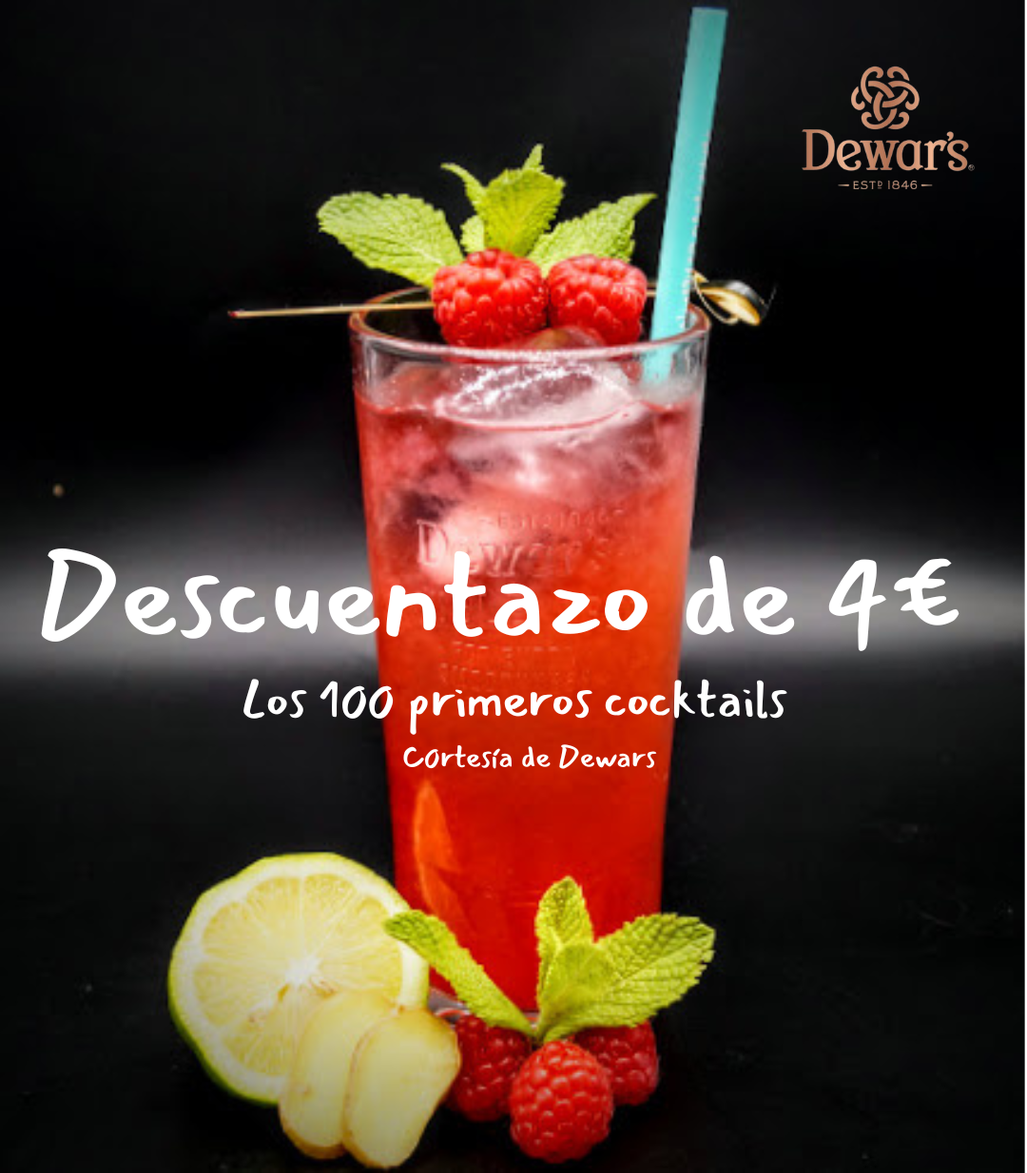
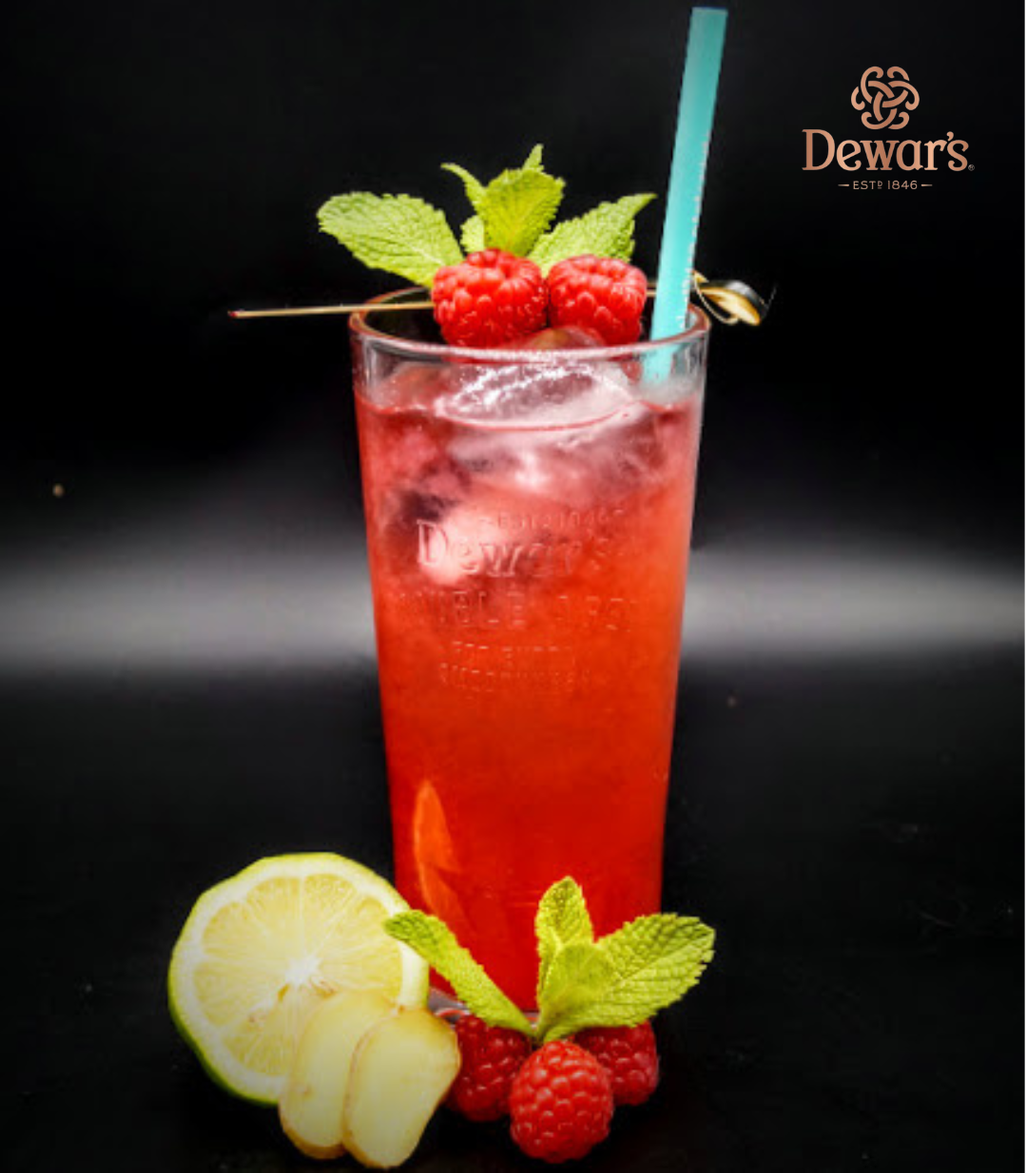
deploy: c743f7343c0cabe97e28b8e2d1a17ab4b925762d

diff --git a/index.html b/index.html
@@ -1,4 +1,4 @@
-<!doctype html><html lang=es-es><head><meta charset=utf-8><title>Maremoto Café & Cocktail</title><meta name=viewport content="width=device-width,initial-scale=1"><meta name=description content="Maremoto Café & Cocktail en Zaragoza"><meta name=author content="Mario Ortiz Manero"><meta name=generator content="Hugo 0.112.5"><meta name=keywords content="bar,pub,copas,cafeteria,cocktails,zaragoza,cafes,desayunos,brunch,zumos,reposteria,bocadillos,centro,aragon"><meta name=generator content="Hugo 0.112.5"><link rel=stylesheet href=https://stackpath.bootstrapcdn.com/bootstrap/4.4.1/css/bootstrap.min.css integrity=sha384-Vkoo8x4CGsO3+Hhxv8T/Q5PaXtkKtu6ug5TOeNV6gBiFeWPGFN9MuhOf23Q9Ifjh crossorigin=anonymous><link rel=stylesheet href=https://maxst.icons8.com/vue-static/landings/line-awesome/line-awesome/1.3.0/css/line-awesome.min.css><link rel=stylesheet href=https://cdnjs.cloudflare.com/ajax/libs/magnific-popup.js/1.1.0/magnific-popup.min.css><link rel=stylesheet href=https://maremotocafe.com/css/style.min.css media=screen><link rel=apple-touch-icon sizes=180x180 href=/apple-touch-icon.png><link rel=icon type=image/png sizes=32x32 href=/favicon-32x32.png><link rel=icon type=image/png sizes=16x16 href=/favicon-16x16.png><link rel=manifest href=/site.webmanifest><link rel=mask-icon href=/safari-pinned-tab.svg color=#5bbad5><meta name=msapplication-TileColor content="#ffffff"><meta name=theme-color content="#ffffff"></head><body id=body data-spy=scroll data-target=.navbar data-offset=55><div id=content><section class=banner-area style=background-image:url(https://maremotocafe.com/images/backgrounds/hero-area.jpg)><div class=block><h1>Maremoto Café & Cocktail</h1><p>Cafés, Desayunos, Brunch, Copas, Cocktails de Autor y mucho más</p><a href=#carta class="btn dark-bg-btn btn-shadow page-scroll">¿Qué te apetece?</a></div></section><a id=scroll-to-top class="btn btn-inverse-colors page-scroll scroll-to-top" title="Ir a Carta" href=#carta><i class="las la-angle-double-up"></i>
+<!doctype html><html lang=es-es><head><meta charset=utf-8><title>Maremoto Café & Cocktail</title><meta name=viewport content="width=device-width,initial-scale=1"><meta name=description content="Maremoto Café & Cocktail en Zaragoza"><meta name=author content="Mario Ortiz Manero"><meta name=generator content="Hugo 0.112.7"><meta name=keywords content="bar,pub,copas,cafeteria,cocktails,zaragoza,cafes,desayunos,brunch,zumos,reposteria,bocadillos,centro,aragon"><meta name=generator content="Hugo 0.112.7"><link rel=stylesheet href=https://stackpath.bootstrapcdn.com/bootstrap/4.4.1/css/bootstrap.min.css integrity=sha384-Vkoo8x4CGsO3+Hhxv8T/Q5PaXtkKtu6ug5TOeNV6gBiFeWPGFN9MuhOf23Q9Ifjh crossorigin=anonymous><link rel=stylesheet href=https://maxst.icons8.com/vue-static/landings/line-awesome/line-awesome/1.3.0/css/line-awesome.min.css><link rel=stylesheet href=https://cdnjs.cloudflare.com/ajax/libs/magnific-popup.js/1.1.0/magnific-popup.min.css><link rel=stylesheet href=https://maremotocafe.com/css/style.min.css media=screen><link rel=apple-touch-icon sizes=180x180 href=/apple-touch-icon.png><link rel=icon type=image/png sizes=32x32 href=/favicon-32x32.png><link rel=icon type=image/png sizes=16x16 href=/favicon-16x16.png><link rel=manifest href=/site.webmanifest><link rel=mask-icon href=/safari-pinned-tab.svg color=#5bbad5><meta name=msapplication-TileColor content="#ffffff"><meta name=theme-color content="#ffffff"></head><body id=body data-spy=scroll data-target=.navbar data-offset=55><div id=content><section class=banner-area style=background-image:url(https://maremotocafe.com/images/backgrounds/hero-area.jpg)><div class=block><h1>Maremoto Café & Cocktail</h1><p>Cafés, Desayunos, Brunch, Copas, Cocktails de Autor y mucho más</p><a href=#carta class="btn dark-bg-btn btn-shadow page-scroll">¿Qué te apetece?</a></div></section><a id=scroll-to-top class="btn btn-inverse-colors page-scroll scroll-to-top" title="Ir a Carta" href=#carta><i class="las la-angle-double-up"></i>
 Ir a Carta</a><div id=old-browser class=old-browser><div class=browser-desc><i class="las la-exclamation-triangle"></i>
 <span>Tu navegador web es demasiado antiguo. Para ver la página correctamente, instala un navegador moderno:</span></div><div class=browser-btns><a class="btn browser-btn" target=_blank rel=noopener href=https://www.mozilla.org/es-ES/firefox/new/><i class="lab la-firefox"></i>
 <span>Firefox</span></a>
@@ -162,7 +162,7 @@ Carta</span></h2><div class=border-meghna></div></div></div></div><div class="ro
 <i class="las la-search"></i></div></a></div></figure><figure class="col-lg-4 shuffle-item" data-groups='["0e4289bca67302dd005790003de478e2","b34b0f802613ce0a65924e6e6d56087d"]'><div class="menu-block mb-4"><a class=open-popup-inline href=#carta-img75><img class="lozad img-fluid" data-src=/carta/308_huad6b75181c4d82a9ff7e321a683ee9d4_134691_465x350_fit_q100_box.jpg alt="Dark Soul"><div class=caption><span>Dark Soul</span>
 <i class="las la-search"></i></div></a></div></figure><figure class="col-lg-4 shuffle-item" data-groups='["58890fbf21cf1187aabb3db3a4bd5a74"]'><div class="menu-block mb-4"><a class=open-popup-standalone href=/carta/cartadesayunos.png><img class="lozad img-fluid" data-src=/carta/portadadesayunos_small.png alt=Desayunos><div class=caption><span>Desayunos</span>
 <i class="las la-search"></i></div></a></div></figure><figure class="col-lg-4 shuffle-item" data-groups='["0e4289bca67302dd005790003de478e2","b34b0f802613ce0a65924e6e6d56087d"]'><div class="menu-block mb-4"><a class=open-popup-inline href=#carta-img77><img class="lozad img-fluid" data-src=/carta/dewarsautunm_hu565f05d02596f16a599f654fdf4cfd72_3797804_465x350_fit_q100_box.jpeg alt="Dewars Autunm 🍁 🆕"><div class=caption><span>Dewars Autunm 🍁 🆕</span>
-<i class="las la-search"></i></div></a></div></figure><figure class="col-lg-4 shuffle-item" data-groups='["0e4289bca67302dd005790003de478e2","b34b0f802613ce0a65924e6e6d56087d"]'><div class="menu-block mb-4"><a class=open-popup-inline href=#carta-img78><img class="lozad img-fluid" data-src=/carta/dewarsbeach_huc56f9d63842180a96534de92091ccfd0_875119_465x350_fit_q100_bgffffff_box_3.jpg alt="Dewars Beach 🏖 ¡¡¡Ojo al Descuentazo de 4€!!! 🆕"><div class=caption><span>Dewars Beach 🏖 ¡¡¡Ojo al Descuentazo de 4€!!! 🆕</span>
+<i class="las la-search"></i></div></a></div></figure><figure class="col-lg-4 shuffle-item" data-groups='["0e4289bca67302dd005790003de478e2","b34b0f802613ce0a65924e6e6d56087d"]'><div class="menu-block mb-4"><a class=open-popup-inline href=#carta-img78><img class="lozad img-fluid" data-src=/carta/dewarsbeach_hu796a51c6ea3a098e6ce7532ebfc07294_844696_465x350_fit_q100_bgffffff_box_3.jpg alt="Dewars Beach 🏖 🆕"><div class=caption><span>Dewars Beach 🏖 🆕</span>
 <i class="las la-search"></i></div></a></div></figure><figure class="col-lg-4 shuffle-item" data-groups='["0e4289bca67302dd005790003de478e2","5b38d4fc03d9b2af5b32aecb51f8d9b0"]'><div class="menu-block mb-4"><a class=open-popup-inline href=#carta-img79><img class="lozad img-fluid" data-src=/carta/374_hu363e03c0d8aad46886e880d0d4da91f6_76909_465x350_fit_q100_box.jpg alt="Dry Martini"><div class=caption><span>Dry Martini</span>
 <i class="las la-search"></i></div></a></div></figure><figure class="col-lg-4 shuffle-item" data-groups='["0e4289bca67302dd005790003de478e2","5b38d4fc03d9b2af5b32aecb51f8d9b0"]'><div class="menu-block mb-4"><a class=open-popup-inline href=#carta-img80><img class="lozad img-fluid" data-src=/carta/350_hu18eb49a21c1187e86fb83a0a077b9204_80080_465x350_fit_q100_box.jpg alt="Espresso Martini"><div class=caption><span>Espresso Martini</span>
 <i class="las la-search"></i></div></a></div></figure><figure class="col-lg-4 shuffle-item" data-groups='["0e4289bca67302dd005790003de478e2","f4fb4e8d6bcb19d8b77736d08477c7b6"]'><div class="menu-block mb-4"><a class=open-popup-inline href=#carta-img81><img class="lozad img-fluid" data-src=/carta/finlandia_hu1542082fb5885ee6d6824c9f4973fd8e_94546_465x350_fit_q100_box.jpeg alt="Finlandia & Schweppes Hibiscus 🌺"><div class=caption><span>Finlandia & Schweppes Hibiscus 🌺</span>
@@ -997,16 +997,15 @@ Todas las tardes de 16h a 22,30h con tu Cappuccino Gratis una Cookie casera a el
 <span class=field-title>PVP en local:</span>
 <span class=field-description>8,5€</span></p></div><div class=field-pvp_terraza><p><i class="field-icon las la-money-bill-wave"></i>
 <span class=field-title>PVP en terraza:</span>
-<span class=field-description>9€</span></p></div></div></div></div><div id=carta-img78 class="carta-img mfp-hide"><div class=popup-content><div class=popup-img><img class=lozad data-src=/carta/dewarsbeach.png alt="Dewars Beach 🏖 ¡¡¡Ojo al Descuentazo de 4€!!! 🆕"></div><div class=popup-details><h1>Dewars Beach 🏖 ¡¡¡Ojo al Descuentazo de 4€!!! 🆕</h1><div class=field-ingredientes><p><i class="field-icon las la-book"></i>
+<span class=field-description>9€</span></p></div></div></div></div><div id=carta-img78 class="carta-img mfp-hide"><div class=popup-content><div class=popup-img><img class=lozad data-src=/carta/dewarsbeach.png alt="Dewars Beach 🏖 🆕"></div><div class=popup-details><h1>Dewars Beach 🏖 🆕</h1><div class=field-ingredientes><p><i class="field-icon las la-book"></i>
 <span class=field-title>Ingredientes:</span>
-<span class=field-description>Dewars White Label, Sirope de Frambuesa casero, Licor de Angostura, Limoncello Pallini y Ginger Beer.</span></p></div><div class=field-txt_aclaraciones><p><i class="field-icon las la-info-circle"></i>
-<span class=field-description>Con este higball cocktail estamos participando en la 2º Dewars Higball Challenge de Zaragoza. ¡Los 100 Primeros Cocktails llevan un descuento de 4€! ¡Aprovecha la ocasión!</span></p></div><div class=field-txt_temporal><p><i class="field-icon las la-calendar-alt"></i>
+<span class=field-description>Dewars White Label, Sirope de Frambuesa casero, Licor de Angostura, Limoncello Pallini y Ginger Beer.</span></p></div><div class=field-txt_temporal><p><i class="field-icon las la-calendar-alt"></i>
 <span class=field-title>Temporalidad:</span>
 <span class=field-description>Disponible todo el año</span></p></div><div class=field-pvp_local><p><i class="field-icon las la-money-bill-wave"></i>
 <span class=field-title>PVP en local:</span>
-<span class=field-description>10€ menos 4€ dto 6€</span></p></div><div class=field-pvp_terraza><p><i class="field-icon las la-money-bill-wave"></i>
+<span class=field-description>7€</span></p></div><div class=field-pvp_terraza><p><i class="field-icon las la-money-bill-wave"></i>
 <span class=field-title>PVP en terraza:</span>
-<span class=field-description>10,50€ menos 4€ dto 6,50€</span></p></div></div></div></div><div id=carta-img79 class="carta-img mfp-hide"><div class=popup-content><div class=popup-img><img class=lozad data-src=/carta/374.jpg alt="Dry Martini"></div><div class=popup-details><h1>Dry Martini</h1><div class=field-ingredientes><p><i class="field-icon las la-book"></i>
+<span class=field-description>7,5€</span></p></div></div></div></div><div id=carta-img79 class="carta-img mfp-hide"><div class=popup-content><div class=popup-img><img class=lozad data-src=/carta/374.jpg alt="Dry Martini"></div><div class=popup-details><h1>Dry Martini</h1><div class=field-ingredientes><p><i class="field-icon las la-book"></i>
 <span class=field-title>Ingredientes:</span>
 <span class=field-description>Ginebra Tanqueray Ten, Vermout dry y Aceitunas</span></p></div><div class=field-alergenos><p><i class="field-icon las la-times"></i>
 <span class=field-title>Alérgenos:</span>

diff --git a/categories/index.html b/categories/index.html
@@ -1,4 +1,4 @@
-<!doctype html><html lang=es-es><head><meta charset=utf-8><title>Categories</title><meta name=viewport content="width=device-width,initial-scale=1"><meta name=description content="Maremoto Café & Cocktail en Zaragoza"><meta name=author content="Mario Ortiz Manero"><meta name=generator content="Hugo 0.112.5"><meta name=keywords content="bar,pub,copas,cafeteria,cocktails,zaragoza,cafes,desayunos,brunch,zumos,reposteria,bocadillos,centro,aragon"><meta name=generator content="Hugo 0.112.5"><link rel=stylesheet href=https://stackpath.bootstrapcdn.com/bootstrap/4.4.1/css/bootstrap.min.css integrity=sha384-Vkoo8x4CGsO3+Hhxv8T/Q5PaXtkKtu6ug5TOeNV6gBiFeWPGFN9MuhOf23Q9Ifjh crossorigin=anonymous><link rel=stylesheet href=https://maxst.icons8.com/vue-static/landings/line-awesome/line-awesome/1.3.0/css/line-awesome.min.css><link rel=stylesheet href=https://cdnjs.cloudflare.com/ajax/libs/magnific-popup.js/1.1.0/magnific-popup.min.css><link rel=stylesheet href=https://maremotocafe.com/css/style.min.css media=screen><link rel=apple-touch-icon sizes=180x180 href=/apple-touch-icon.png><link rel=icon type=image/png sizes=32x32 href=/favicon-32x32.png><link rel=icon type=image/png sizes=16x16 href=/favicon-16x16.png><link rel=manifest href=/site.webmanifest><link rel=mask-icon href=/safari-pinned-tab.svg color=#5bbad5><meta name=msapplication-TileColor content="#ffffff"><meta name=theme-color content="#ffffff"></head><body id=body data-spy=scroll data-target=.navbar data-offset=55><div id=content><section class="sticky-top navigation"><div class=container><nav class="navbar navbar-expand-lg navbar-dark"><div class=navbar-mobile><a class="navbar-brand p-0" href=/><img class="logo img-fluid" src=https://maremotocafe.com/images/logo.png alt="Maremoto Café & Cocktail"></a>
+<!doctype html><html lang=es-es><head><meta charset=utf-8><title>Categories</title><meta name=viewport content="width=device-width,initial-scale=1"><meta name=description content="Maremoto Café & Cocktail en Zaragoza"><meta name=author content="Mario Ortiz Manero"><meta name=generator content="Hugo 0.112.7"><meta name=keywords content="bar,pub,copas,cafeteria,cocktails,zaragoza,cafes,desayunos,brunch,zumos,reposteria,bocadillos,centro,aragon"><meta name=generator content="Hugo 0.112.7"><link rel=stylesheet href=https://stackpath.bootstrapcdn.com/bootstrap/4.4.1/css/bootstrap.min.css integrity=sha384-Vkoo8x4CGsO3+Hhxv8T/Q5PaXtkKtu6ug5TOeNV6gBiFeWPGFN9MuhOf23Q9Ifjh crossorigin=anonymous><link rel=stylesheet href=https://maxst.icons8.com/vue-static/landings/line-awesome/line-awesome/1.3.0/css/line-awesome.min.css><link rel=stylesheet href=https://cdnjs.cloudflare.com/ajax/libs/magnific-popup.js/1.1.0/magnific-popup.min.css><link rel=stylesheet href=https://maremotocafe.com/css/style.min.css media=screen><link rel=apple-touch-icon sizes=180x180 href=/apple-touch-icon.png><link rel=icon type=image/png sizes=32x32 href=/favicon-32x32.png><link rel=icon type=image/png sizes=16x16 href=/favicon-16x16.png><link rel=manifest href=/site.webmanifest><link rel=mask-icon href=/safari-pinned-tab.svg color=#5bbad5><meta name=msapplication-TileColor content="#ffffff"><meta name=theme-color content="#ffffff"></head><body id=body data-spy=scroll data-target=.navbar data-offset=55><div id=content><section class="sticky-top navigation"><div class=container><nav class="navbar navbar-expand-lg navbar-dark"><div class=navbar-mobile><a class="navbar-brand p-0" href=/><img class="logo img-fluid" src=https://maremotocafe.com/images/logo.png alt="Maremoto Café & Cocktail"></a>
 <button class="navbar-toggler rounded-0" aria-label=Menú type=button data-toggle=collapse data-target=#navigation>
 <span class=navbar-toggler-icon></span></button></div><div class="collapse navbar-collapse" id=navigation><ul class="navbar-nav ml-auto"><li class=nav-item><a class=nav-link href=#body>Inicio</a></li><li class=nav-item><a class=nav-link href=/#glovo>Glovo</a></li><li class=nav-item><a class=nav-link href=/#carta>Carta</a></li><li class=nav-item><a class=nav-link href=/#contact>Contacto</a></li></ul></div></nav></div></section><section id=blog class=section><div class=container><div class=row><div class=col-12><div class="title text-center wow fadeInDown"><h2>Latest <span class=color>Post</span></h2><div class=border-meghna></div></div></div><div class=col-12></div></div></div></section></div><footer id=footer class=section-bg><div class=container><div class="row wow fadeInUp" data-wow-duration=500ms><div class=col-xl-12><div class=social-icon><ul class=list-inline><li class=list-inline-item><a href=https://www.facebook.com/maremotocafeandcocktail/ target=_blank rel=noreferrer><i class="lab la-facebook-f"></i></a></li><li class=list-inline-item><a href=https://twitter.com/maremotocafe target=_blank rel=noreferrer><i class="lab la-twitter"></i></a></li><li class=list-inline-item><a href=https://www.instagram.com/maremotocafeandcocktail target=_blank rel=noreferrer><i class="lab la-instagram"></i></a></li></ul></div><div class="copyright text-center"><a href=https://maremotocafe.com/><img src=https://maremotocafe.com/images/logo.png alt="Maremoto Café & Cocktail"></a><br><p></p></div></div></div></div></footer><script src=https://code.jquery.com/jquery-3.5.1.min.js integrity="sha256-9/aliU8dGd2tb6OSsuzixeV4y/faTqgFtohetphbbj0=" crossorigin=anonymous></script>
 <script src=https://cdn.jsdelivr.net/npm/popper.js@1.16.0/dist/umd/popper.min.js integrity=sha384-Q6E9RHvbIyZFJoft+2mJbHaEWldlvI9IOYy5n3zV9zzTtmI3UksdQRVvoxMfooAo crossorigin=anonymous></script>

diff --git a/tags/index.html b/tags/index.html
@@ -1,4 +1,4 @@
-<!doctype html><html lang=es-es><head><meta charset=utf-8><title>Tags</title><meta name=viewport content="width=device-width,initial-scale=1"><meta name=description content="Maremoto Café & Cocktail en Zaragoza"><meta name=author content="Mario Ortiz Manero"><meta name=generator content="Hugo 0.112.5"><meta name=keywords content="bar,pub,copas,cafeteria,cocktails,zaragoza,cafes,desayunos,brunch,zumos,reposteria,bocadillos,centro,aragon"><meta name=generator content="Hugo 0.112.5"><link rel=stylesheet href=https://stackpath.bootstrapcdn.com/bootstrap/4.4.1/css/bootstrap.min.css integrity=sha384-Vkoo8x4CGsO3+Hhxv8T/Q5PaXtkKtu6ug5TOeNV6gBiFeWPGFN9MuhOf23Q9Ifjh crossorigin=anonymous><link rel=stylesheet href=https://maxst.icons8.com/vue-static/landings/line-awesome/line-awesome/1.3.0/css/line-awesome.min.css><link rel=stylesheet href=https://cdnjs.cloudflare.com/ajax/libs/magnific-popup.js/1.1.0/magnific-popup.min.css><link rel=stylesheet href=https://maremotocafe.com/css/style.min.css media=screen><link rel=apple-touch-icon sizes=180x180 href=/apple-touch-icon.png><link rel=icon type=image/png sizes=32x32 href=/favicon-32x32.png><link rel=icon type=image/png sizes=16x16 href=/favicon-16x16.png><link rel=manifest href=/site.webmanifest><link rel=mask-icon href=/safari-pinned-tab.svg color=#5bbad5><meta name=msapplication-TileColor content="#ffffff"><meta name=theme-color content="#ffffff"></head><body id=body data-spy=scroll data-target=.navbar data-offset=55><div id=content><section class="sticky-top navigation"><div class=container><nav class="navbar navbar-expand-lg navbar-dark"><div class=navbar-mobile><a class="navbar-brand p-0" href=/><img class="logo img-fluid" src=https://maremotocafe.com/images/logo.png alt="Maremoto Café & Cocktail"></a>
+<!doctype html><html lang=es-es><head><meta charset=utf-8><title>Tags</title><meta name=viewport content="width=device-width,initial-scale=1"><meta name=description content="Maremoto Café & Cocktail en Zaragoza"><meta name=author content="Mario Ortiz Manero"><meta name=generator content="Hugo 0.112.7"><meta name=keywords content="bar,pub,copas,cafeteria,cocktails,zaragoza,cafes,desayunos,brunch,zumos,reposteria,bocadillos,centro,aragon"><meta name=generator content="Hugo 0.112.7"><link rel=stylesheet href=https://stackpath.bootstrapcdn.com/bootstrap/4.4.1/css/bootstrap.min.css integrity=sha384-Vkoo8x4CGsO3+Hhxv8T/Q5PaXtkKtu6ug5TOeNV6gBiFeWPGFN9MuhOf23Q9Ifjh crossorigin=anonymous><link rel=stylesheet href=https://maxst.icons8.com/vue-static/landings/line-awesome/line-awesome/1.3.0/css/line-awesome.min.css><link rel=stylesheet href=https://cdnjs.cloudflare.com/ajax/libs/magnific-popup.js/1.1.0/magnific-popup.min.css><link rel=stylesheet href=https://maremotocafe.com/css/style.min.css media=screen><link rel=apple-touch-icon sizes=180x180 href=/apple-touch-icon.png><link rel=icon type=image/png sizes=32x32 href=/favicon-32x32.png><link rel=icon type=image/png sizes=16x16 href=/favicon-16x16.png><link rel=manifest href=/site.webmanifest><link rel=mask-icon href=/safari-pinned-tab.svg color=#5bbad5><meta name=msapplication-TileColor content="#ffffff"><meta name=theme-color content="#ffffff"></head><body id=body data-spy=scroll data-target=.navbar data-offset=55><div id=content><section class="sticky-top navigation"><div class=container><nav class="navbar navbar-expand-lg navbar-dark"><div class=navbar-mobile><a class="navbar-brand p-0" href=/><img class="logo img-fluid" src=https://maremotocafe.com/images/logo.png alt="Maremoto Café & Cocktail"></a>
 <button class="navbar-toggler rounded-0" aria-label=Menú type=button data-toggle=collapse data-target=#navigation>
 <span class=navbar-toggler-icon></span></button></div><div class="collapse navbar-collapse" id=navigation><ul class="navbar-nav ml-auto"><li class=nav-item><a class=nav-link href=#body>Inicio</a></li><li class=nav-item><a class=nav-link href=/#glovo>Glovo</a></li><li class=nav-item><a class=nav-link href=/#carta>Carta</a></li><li class=nav-item><a class=nav-link href=/#contact>Contacto</a></li></ul></div></nav></div></section><section id=blog class=section><div class=container><div class=row><div class=col-12><div class="title text-center wow fadeInDown"><h2>Latest <span class=color>Post</span></h2><div class=border-meghna></div></div></div><div class=col-12></div></div></div></section></div><footer id=footer class=section-bg><div class=container><div class="row wow fadeInUp" data-wow-duration=500ms><div class=col-xl-12><div class=social-icon><ul class=list-inline><li class=list-inline-item><a href=https://www.facebook.com/maremotocafeandcocktail/ target=_blank rel=noreferrer><i class="lab la-facebook-f"></i></a></li><li class=list-inline-item><a href=https://twitter.com/maremotocafe target=_blank rel=noreferrer><i class="lab la-twitter"></i></a></li><li class=list-inline-item><a href=https://www.instagram.com/maremotocafeandcocktail target=_blank rel=noreferrer><i class="lab la-instagram"></i></a></li></ul></div><div class="copyright text-center"><a href=https://maremotocafe.com/><img src=https://maremotocafe.com/images/logo.png alt="Maremoto Café & Cocktail"></a><br><p></p></div></div></div></div></footer><script src=https://code.jquery.com/jquery-3.5.1.min.js integrity="sha256-9/aliU8dGd2tb6OSsuzixeV4y/faTqgFtohetphbbj0=" crossorigin=anonymous></script>
 <script src=https://cdn.jsdelivr.net/npm/popper.js@1.16.0/dist/umd/popper.min.js integrity=sha384-Q6E9RHvbIyZFJoft+2mJbHaEWldlvI9IOYy5n3zV9zzTtmI3UksdQRVvoxMfooAo crossorigin=anonymous></script>

diff --git a/404.html b/404.html
@@ -1,4 +1,4 @@
-<!doctype html><html lang=es-es><head><meta charset=utf-8><title>404 Page not found</title><meta name=viewport content="width=device-width,initial-scale=1"><meta name=description content="Maremoto Café & Cocktail en Zaragoza"><meta name=author content="Mario Ortiz Manero"><meta name=generator content="Hugo 0.112.5"><meta name=keywords content="bar,pub,copas,cafeteria,cocktails,zaragoza,cafes,desayunos,brunch,zumos,reposteria,bocadillos,centro,aragon"><meta name=generator content="Hugo 0.112.5"><link rel=stylesheet href=https://stackpath.bootstrapcdn.com/bootstrap/4.4.1/css/bootstrap.min.css integrity=sha384-Vkoo8x4CGsO3+Hhxv8T/Q5PaXtkKtu6ug5TOeNV6gBiFeWPGFN9MuhOf23Q9Ifjh crossorigin=anonymous><link rel=stylesheet href=https://maxst.icons8.com/vue-static/landings/line-awesome/line-awesome/1.3.0/css/line-awesome.min.css><link rel=stylesheet href=https://cdnjs.cloudflare.com/ajax/libs/magnific-popup.js/1.1.0/magnific-popup.min.css><link rel=stylesheet href=https://maremotocafe.com/css/style.min.css media=screen><link rel=apple-touch-icon sizes=180x180 href=/apple-touch-icon.png><link rel=icon type=image/png sizes=32x32 href=/favicon-32x32.png><link rel=icon type=image/png sizes=16x16 href=/favicon-16x16.png><link rel=manifest href=/site.webmanifest><link rel=mask-icon href=/safari-pinned-tab.svg color=#5bbad5><meta name=msapplication-TileColor content="#ffffff"><meta name=theme-color content="#ffffff"></head><body id=body data-spy=scroll data-target=.navbar data-offset=55><div id=content><section class="sticky-top navigation"><div class=container><nav class="navbar navbar-expand-lg navbar-dark"><div class=navbar-mobile><a class="navbar-brand p-0" href=/><img class="logo img-fluid" src=https://maremotocafe.com/images/logo.png alt="Maremoto Café & Cocktail"></a>
+<!doctype html><html lang=es-es><head><meta charset=utf-8><title>404 Page not found</title><meta name=viewport content="width=device-width,initial-scale=1"><meta name=description content="Maremoto Café & Cocktail en Zaragoza"><meta name=author content="Mario Ortiz Manero"><meta name=generator content="Hugo 0.112.7"><meta name=keywords content="bar,pub,copas,cafeteria,cocktails,zaragoza,cafes,desayunos,brunch,zumos,reposteria,bocadillos,centro,aragon"><meta name=generator content="Hugo 0.112.7"><link rel=stylesheet href=https://stackpath.bootstrapcdn.com/bootstrap/4.4.1/css/bootstrap.min.css integrity=sha384-Vkoo8x4CGsO3+Hhxv8T/Q5PaXtkKtu6ug5TOeNV6gBiFeWPGFN9MuhOf23Q9Ifjh crossorigin=anonymous><link rel=stylesheet href=https://maxst.icons8.com/vue-static/landings/line-awesome/line-awesome/1.3.0/css/line-awesome.min.css><link rel=stylesheet href=https://cdnjs.cloudflare.com/ajax/libs/magnific-popup.js/1.1.0/magnific-popup.min.css><link rel=stylesheet href=https://maremotocafe.com/css/style.min.css media=screen><link rel=apple-touch-icon sizes=180x180 href=/apple-touch-icon.png><link rel=icon type=image/png sizes=32x32 href=/favicon-32x32.png><link rel=icon type=image/png sizes=16x16 href=/favicon-16x16.png><link rel=manifest href=/site.webmanifest><link rel=mask-icon href=/safari-pinned-tab.svg color=#5bbad5><meta name=msapplication-TileColor content="#ffffff"><meta name=theme-color content="#ffffff"></head><body id=body data-spy=scroll data-target=.navbar data-offset=55><div id=content><section class="sticky-top navigation"><div class=container><nav class="navbar navbar-expand-lg navbar-dark"><div class=navbar-mobile><a class="navbar-brand p-0" href=/><img class="logo img-fluid" src=https://maremotocafe.com/images/logo.png alt="Maremoto Café & Cocktail"></a>
 <button class="navbar-toggler rounded-0" aria-label=Menú type=button data-toggle=collapse data-target=#navigation>
 <span class=navbar-toggler-icon></span></button></div><div class="collapse navbar-collapse" id=navigation><ul class="navbar-nav ml-auto"><li class=nav-item><a class=nav-link href=#body>Inicio</a></li><li class=nav-item><a class=nav-link href=/#glovo>Glovo</a></li><li class=nav-item><a class=nav-link href=/#carta>Carta</a></li><li class=nav-item><a class=nav-link href=/#contact>Contacto</a></li></ul></div></nav></div></section><section class=section><div class=container><div class=row><div class="col-12 text-center"><h1>404</h1><h2 class=mb-3>Página no encontrada</h2><a class="btn btn-inverse-colors" href=/>Volver al inicio</a></div></div></div></section></div><footer id=footer class=section-bg><div class=container><div class="row wow fadeInUp" data-wow-duration=500ms><div class=col-xl-12><div class=social-icon><ul class=list-inline><li class=list-inline-item><a href=https://www.facebook.com/maremotocafeandcocktail/ target=_blank rel=noreferrer><i class="lab la-facebook-f"></i></a></li><li class=list-inline-item><a href=https://twitter.com/maremotocafe target=_blank rel=noreferrer><i class="lab la-twitter"></i></a></li><li class=list-inline-item><a href=https://www.instagram.com/maremotocafeandcocktail target=_blank rel=noreferrer><i class="lab la-instagram"></i></a></li></ul></div><div class="copyright text-center"><a href=https://maremotocafe.com/><img src=https://maremotocafe.com/images/logo.png alt="Maremoto Café & Cocktail"></a><br><p></p></div></div></div></div></footer><script src=https://code.jquery.com/jquery-3.5.1.min.js integrity="sha256-9/aliU8dGd2tb6OSsuzixeV4y/faTqgFtohetphbbj0=" crossorigin=anonymous></script>
 <script src=https://cdn.jsdelivr.net/npm/popper.js@1.16.0/dist/umd/popper.min.js integrity=sha384-Q6E9RHvbIyZFJoft+2mJbHaEWldlvI9IOYy5n3zV9zzTtmI3UksdQRVvoxMfooAo crossorigin=anonymous></script>
